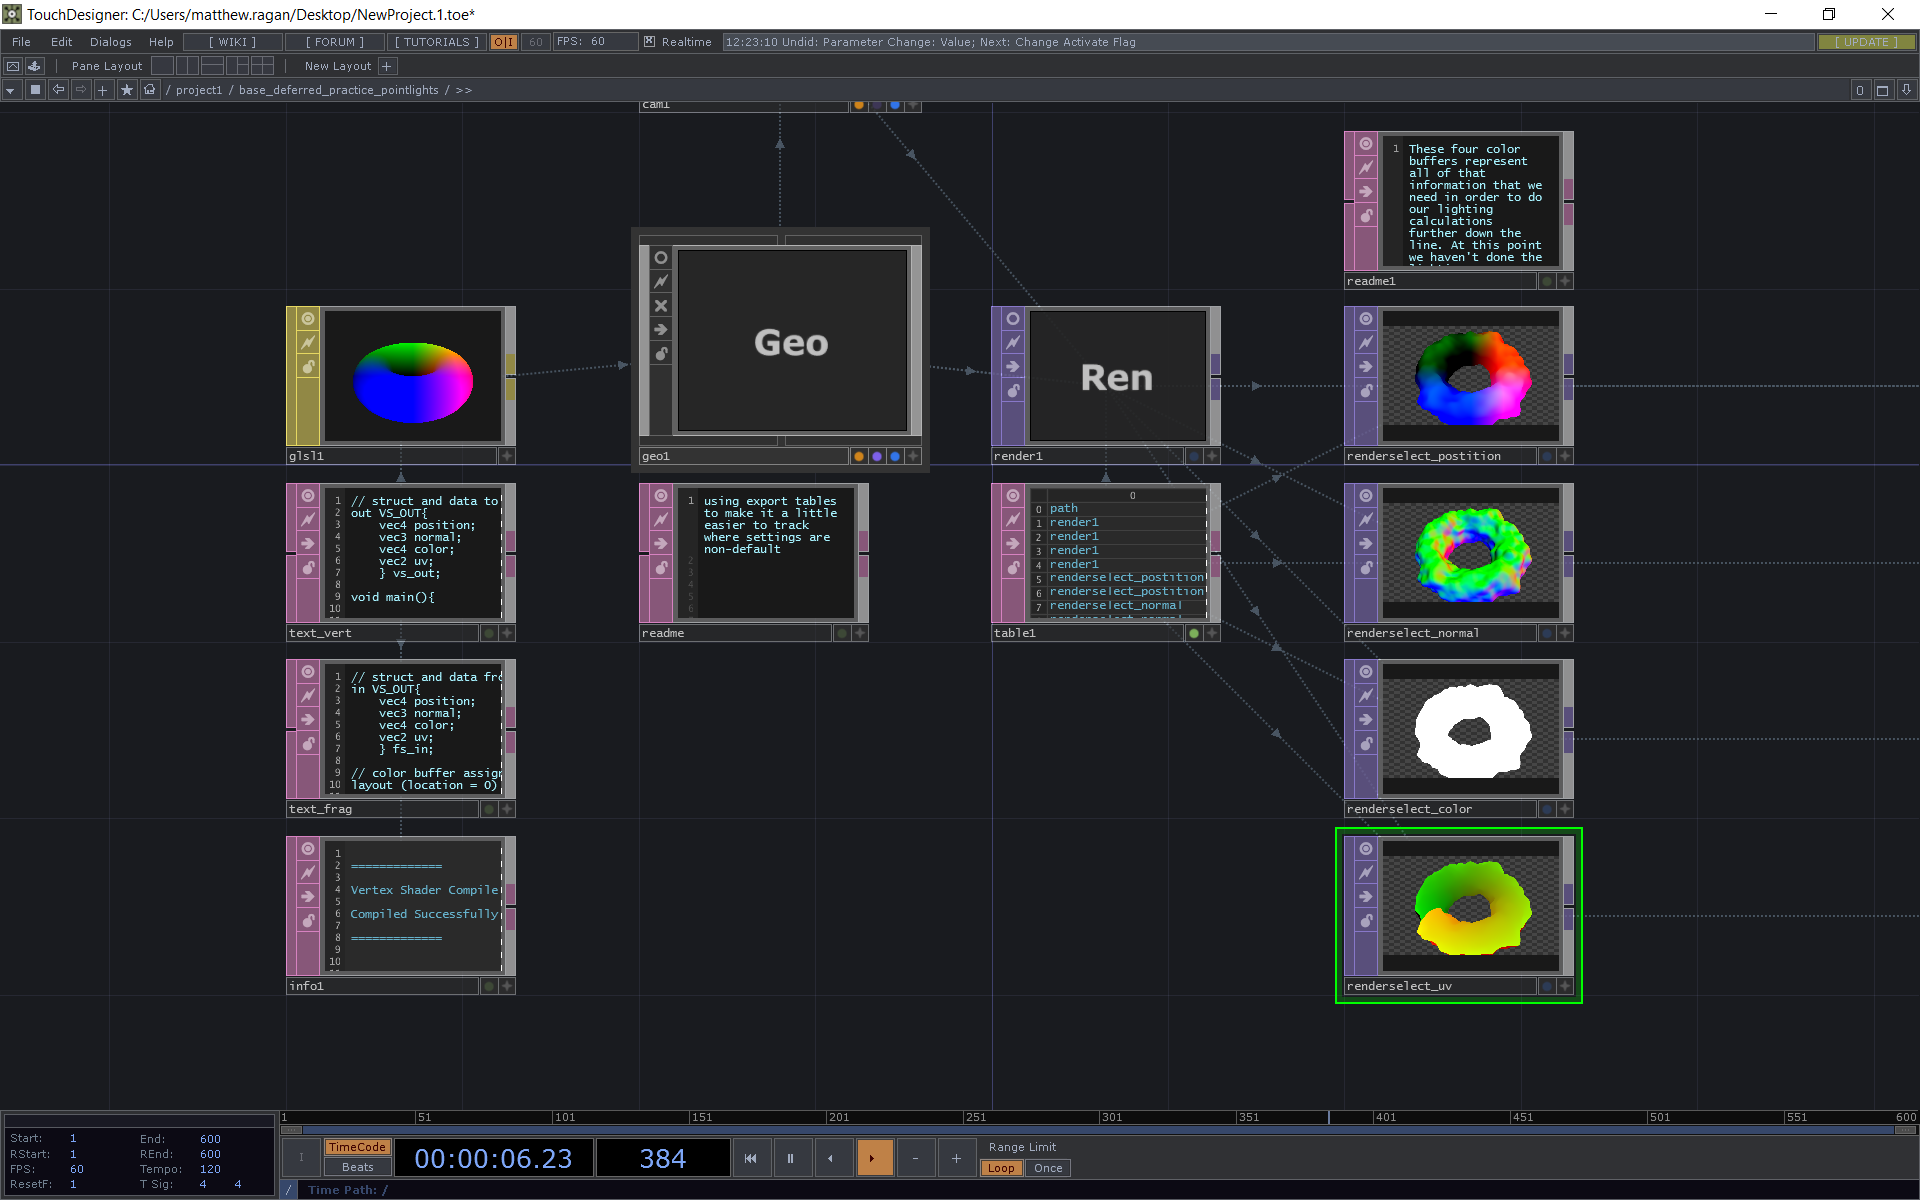
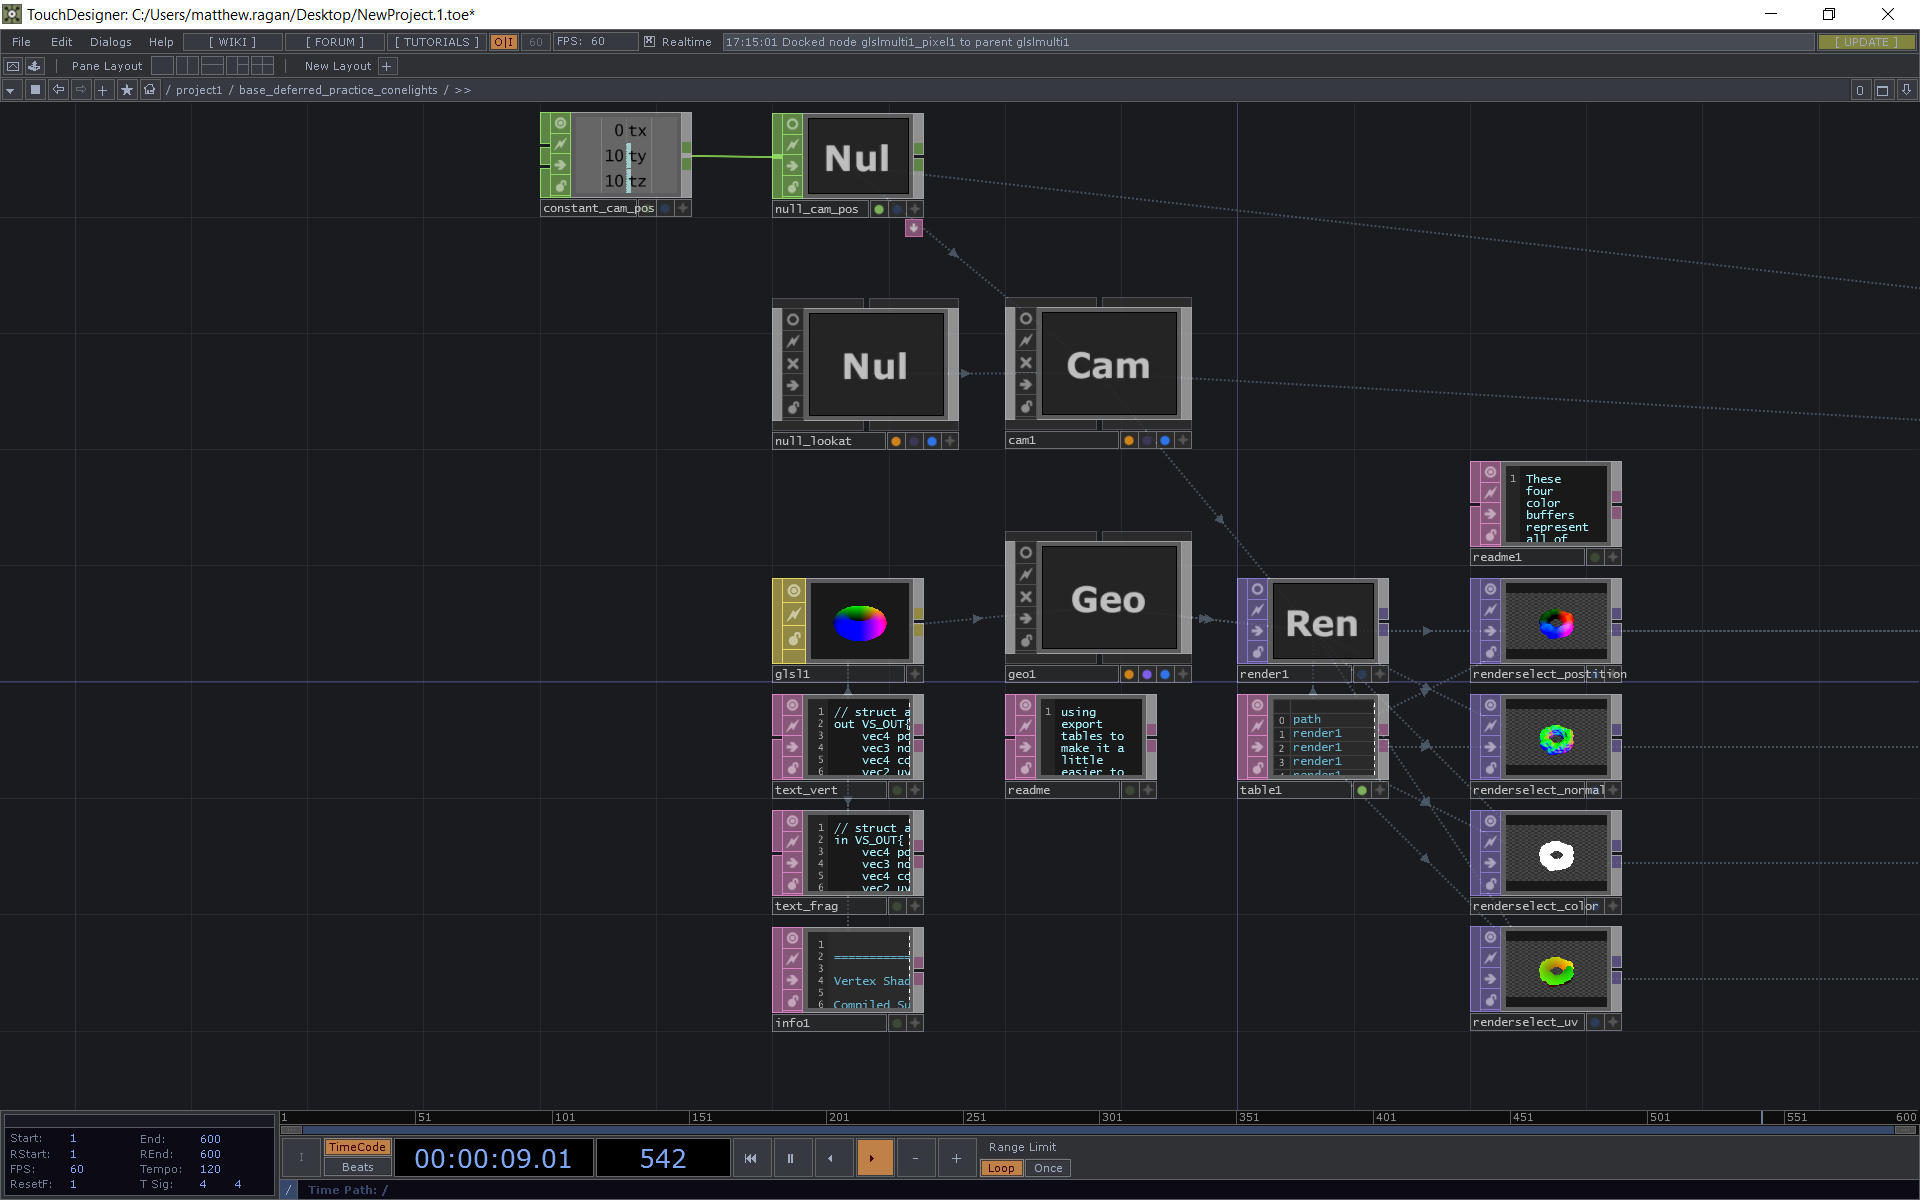
changed file names - previous names were incorrect. added additional examples and assets

diff --git a/example-lights-cone/readme.md b/example-lights-cone/readme.md
@@ -1,0 +1,215 @@
+# TouchDesigner Deferred Lighting - Cone Lights
+TouchDesigner networks are notoriously difficult to read, and this doc is intended to help shed some light on the ideas explored in this initial sample tox that's largely flat.
+
+This approach is very similar to point lights, with the additional challenge of needing to think about lights as directional. We'll see that the first stage and last of this process - is consistent with our Point Light example, but in the middle we need to make some changes. We can get started by again with color buffers.
+
+## Color Buffers
+![color buffers]()
+
+These four color buffers represent all of that information that we need in order to do our lighting calculations further down the line. At this point we haven't done the lighting calculations yet - just set up all of the requisite data so we can compute our lighting in another pass.
+
+Our four buffers represent:
+* position - `renderselect_postition`
+* normals - `renderselect_normal`
+* color - `renderselect_color`
+* uvs - `renderselect_uv`
+
+If we look at our GLSL material we can get a better sense of how that's accomplished.
+
+```glsl
+// TouchDesigner vertex shader
+
+// struct and data to fragment shader
+out VS_OUT{
+    vec4 position;
+    vec3 normal;
+    vec4 color;
+    vec2 uv;
+    } vs_out;
+
+void main(){
+    
+    // packing data for passthrough to fragment shader
+    vs_out.position     = TDDeform(P);
+    vs_out.normal       = TDDeformNorm(N);
+    vs_out.color        = Cd;
+    vs_out.uv           = uv[0].st;
+
+    gl_Position         = TDWorldToProj(vs_out.position); 
+}
+```
+
+```glsl
+// TouchDesigner frag shader
+
+// struct and data from our vertex shader
+in VS_OUT{
+    vec4 position;
+    vec3 normal;
+    vec4 color;
+    vec2 uv;
+    } fs_in;
+
+// color buffer assignments
+layout (location = 0) out vec4 o_position;
+layout (location = 1) out vec4 o_normal;
+layout (location = 2) out vec4 o_color;
+layout (location = 3) out vec4 o_uv;
+
+void main(){
+    o_position  = fs_in.position;
+    o_normal    = vec4( fs_in.normal, 1.0 );
+    o_color     = fs_in.color;
+    o_uv        = vec4( fs_in.uv, 0.0, 1.0 );
+}
+```
+
+Essentially, the idea here is that we're encoding information about our scene in color buffers for later combination. In order to properly do this in our scene we need to know point position, normal, color, and uv. This is normally handled without any additional intervention by the programmer, but in the case of working with lots of lights we need to organize our data a little differently. 
+
+## Light Attributes
+![light attributes]()
+
+Here we'll begin to see a divergence from our previous approach.
+
+We are still going to compute and pack data for the position, color, and falloff for our point lights like in our previous example. The difference now is that we also need to compute a look-at position for each of our lights. In addition to our falloff data we'll need to also consider the cone angle and delta of our lights. For the time being cone angle is working, but cone delta is broken - pardon my learning in public here. 
+
+For the sake of sanity / simplicity we'll use a piece of geometry to represent the position of our point lights - similar to the approach used for instancing. In our network we can see that this is represented by our null SOP `null_lightpos`. We convert this to CHOP data and use the attributes from this null (number of points) to correctly ensure that the rest of our CHOP data matches the correct number of samples / lights we have in our scene. In this case we're using a null since we want to position the look-at points at some other position than our lights themselves. Notice that our circle has one transform SOP to describe light position, and another transform SOP to describe look-at position. In the next stage we'll use our `null_light_pos` CHOP and our `null_light_lookat` CHOP for the lighting calculations - we'll also end up using the results of our object CHOP `null_cone_rot` to be able to describe the rotation of our lights when rendering them as instances. 
+
+When it comes to the color of our lights, we can use a noise or ramp TOP to get us started. These values are ultimately just CHOP data, but it's easier to think of them in a visual way - hence the use of a ramp or noise TOP. The attributes for our lights are packed into CHOPs where each sample represents the attributes for a different light. We'll use a `texelFetchBuffer()` call in our next stage to pull the information we need from these arrays. Just to be clear, our attributes are packed in the following CHOPs:
+* position - `null_light_pos`
+* color - `null_light_color`
+* falloff - `null_light_falloff`
+* light cone - `null_light_cone`
+
+This means that sample 0 from each of these four CHOPs all relate to the same light. We pack them in sequences of three channels, since that easily translates to a `vec3` in our next fragment process. 
+
+The additional light cone attribute here is used to describe the radius of the cone and the degree of softness at the edges (again pardon the fact that this isn't yet working).
+
+## Combining Buffers
+![combining buffers]()
+
+Next up we combine our color buffers along with our CHOPs that hold the information about our lights location and properties.
+
+What does this mean exactly? It's here that we loop through each light to determine its contribution to the lighting in the scene, accumulate that value, and combine it with what's in our scene already. This assemblage of our stages and lights is "deferred" so we're only doing this set of calculations based on the actual output pixels, rather than on geometry that may or may not be visible to our camera. For loops are generally frowned on in openGL, but this is a case where we can use one to our advantage and with less overhead than if we were using light components for our scene.
+
+Here's a look at the GLSL that's used to combine our various buffers:
+
+```glsl
+\\TouchDesigner glsl TOP
+
+uniform int numLights;
+
+uniform vec3 viewDirection;             // camera location
+uniform vec3 specularColor;
+
+uniform float shininess;
+
+uniform sampler2D samplerPos;
+uniform sampler2D samplerNorm;
+uniform sampler2D samplerColor;
+uniform sampler2D samplerUv;
+
+uniform samplerBuffer lightPos;         // position as xyz
+uniform samplerBuffer lightColor;       // color as rgb
+uniform samplerBuffer lightFalloff;     // falloff constant, linear, quadratic
+uniform samplerBuffer lightLookat;      // lookat position xyz
+uniform samplerBuffer lightCone;        // angle, delta, and falloff
+
+out vec4 fragColor;
+
+#define PI 3.14159265359
+
+void main()
+{
+    vec2 screenSpaceUV      = vUV.st;
+    vec2 resolution         = uTD2DInfos[0].res.zw;
+
+    // parse data from g-buffer
+    vec3 position       = texture( sTD2DInputs[0], screenSpaceUV ).xyz;
+    vec3 normal         = texture( sTD2DInputs[1], screenSpaceUV ).xyz;
+    vec4 color          = texture( sTD2DInputs[2], screenSpaceUV );
+    vec2 uv             = texture( sTD2DInputs[3], screenSpaceUV ).rg;
+
+    vec3 cameraVec      = normalize(viewDirection - position);
+
+    // set up placeholder for final color
+    vec3 finalColor     = vec3(0.0);
+
+    // loop through all lights
+    for ( int light = 0; light < numLights; ++light ){
+
+        // parse lighitng data based on the current light index
+        vec3 currentLightPos        = texelFetchBuffer( lightPos, light ).xyz;
+        vec3 currentLightColor      = texelFetchBuffer( lightColor, light ).xyz;
+        vec3 currentLightFalloff    = texelFetchBuffer( lightFalloff, light ).xyz;
+        vec3 currentLightLookat     = texelFetchBuffer( lightLookat, light ).xyz;
+        vec3 currentLightCone       = texelFetchBuffer( lightCone, light ).xyz;
+
+        // cone attributes
+        float uConeAngle            = currentLightCone.x;
+        float uConeDelta            = currentLightCone.y;
+        float uConeRolloff          = currentLightCone.z;   
+
+        // calculate the distance between the current fragment and the light source
+        float lightDist             = length( currentLightPos - position );
+        vec3 lightVec               = normalize( currentLightPos - position );
+
+        // spot
+        float fullcos               = cos(radians((uConeAngle / 2.0) + uConeDelta));
+        fullcos                     = (fullcos * 0.5) + 0.5;
+        float scale                 = 0.5 / (1.0 - fullcos);
+        float bias                  = (0.5 - fullcos) / (1.0 - fullcos);
+        vec2 coneLookupScaleBias    = vec2(scale, bias);
+        
+        vec3 spot                   = normalize( currentLightLookat - currentLightPos );
+        float spotEffect            = dot( spot, -lightVec );
+        float coneAngle             = radians( uConeAngle / 2.0);
+        float ang                   = acos(spotEffect);
+
+        float dimmer;
+        if( ang > coneAngle )
+            dimmer                  = 0.0;
+        else
+            dimmer                  = texture( sTDSineLookup, 1.0 - ( ang / coneAngle ) ).r;
+
+
+        vec3 toLight                = normalize( currentLightPos - position );
+        vec3 diffuse                = max( dot( normal, toLight ), 0.0 ) * color.rgb * currentLightColor;
+
+        float diffuseDot            = clamp(dot(lightVec, normal), 0.0, 1.0);
+        vec3 colorSum               = diffuseDot * currentLightColor;
+        vec3 halfAng                = normalize((cameraVec + lightVec).xyz);
+        float specDot               = pow(clamp(dot(halfAng, normal), 0.0, 1.0), shininess);
+
+        colorSum                    += specDot * currentLightColor * 0.3 * diffuse;
+        colorSum                    *= dimmer;
+
+
+        // accumulate lighting
+        finalColor                  += colorSum;
+
+    }
+
+    // final color out 
+    fragColor = TDOutputSwizzle( vec4( finalColor, color.a ) );
+}
+```
+If you look at the final pieces of our for loop you'll find that much of this process is borrowed from the example Malcolm wrote (Thanks Malcolm!). This starting point serves as a baseline to help us get started from the position of how other lights are handled in Touch.
+
+## Representing Lights
+![representing lights]()
+
+At this point we've successfully completed our lighting calculations, had them accumulate in our scene, and have a slick looking render. However, we probably want to see them represented in some way. In this case we might want to see them just so we can get a sense of if our calculations and data packing is working correctly. 
+
+To this end, we can use instances and a render pass to represent our lights as spheres to help get a more accurate sense of where each light is located in our scene. If you've used instances before in TouchDesigner this should look very familiar. If that's new to you, check out: [Simple Instancing](https://matthewragan.com/2015/03/31/thp-494-598-simple-instancing-touchdesigner/)
+
+Our divergence here is that rather than using spheres, we're instead using cones to represent our lights. In a future iteration the width of the cone base should scale along with our cone angle, but for now let's celebrate the fact that we have a way to see where our lights are coming from. You'll notice that the rotate attributes generated from the object CHOP are used to describe the rotation of the instances. Ultimately, we probably don't need these representations, but they sure are handy when we're trying to get a sense of what's happening inside of our shader.
+
+## Post Processing for Final Output
+![post process]()
+
+Finally we need to assemble our scene and do any final post process bits to get make things clean and tidy.
+
+Up to this point we haven't done any anti-aliasing, and our instances are in another render pass. To combine all of our pieces, and do take off the sharp edges we need to do a few final pieces of work. First we'll composite our scene elements, then do an anti-aliasing pass. This is also where you might choose to do any other post process treatments like adding a glow or bloom to your render.
+
+![final product]()
